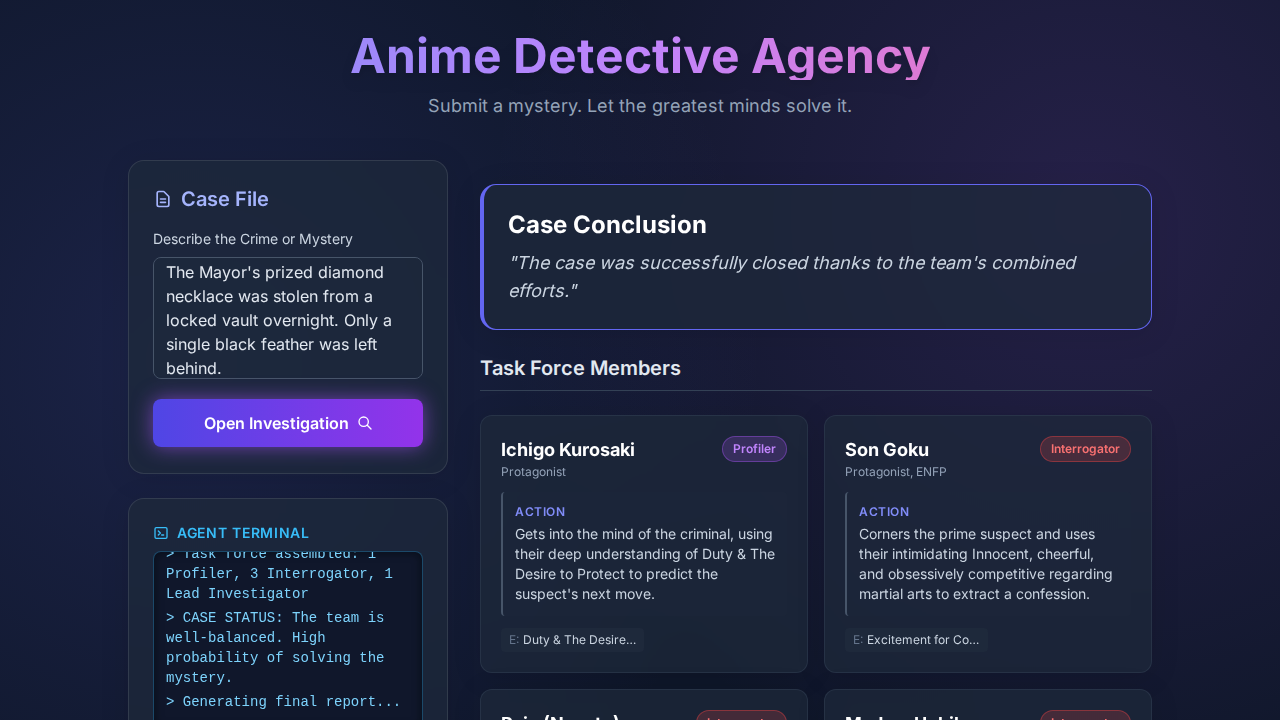
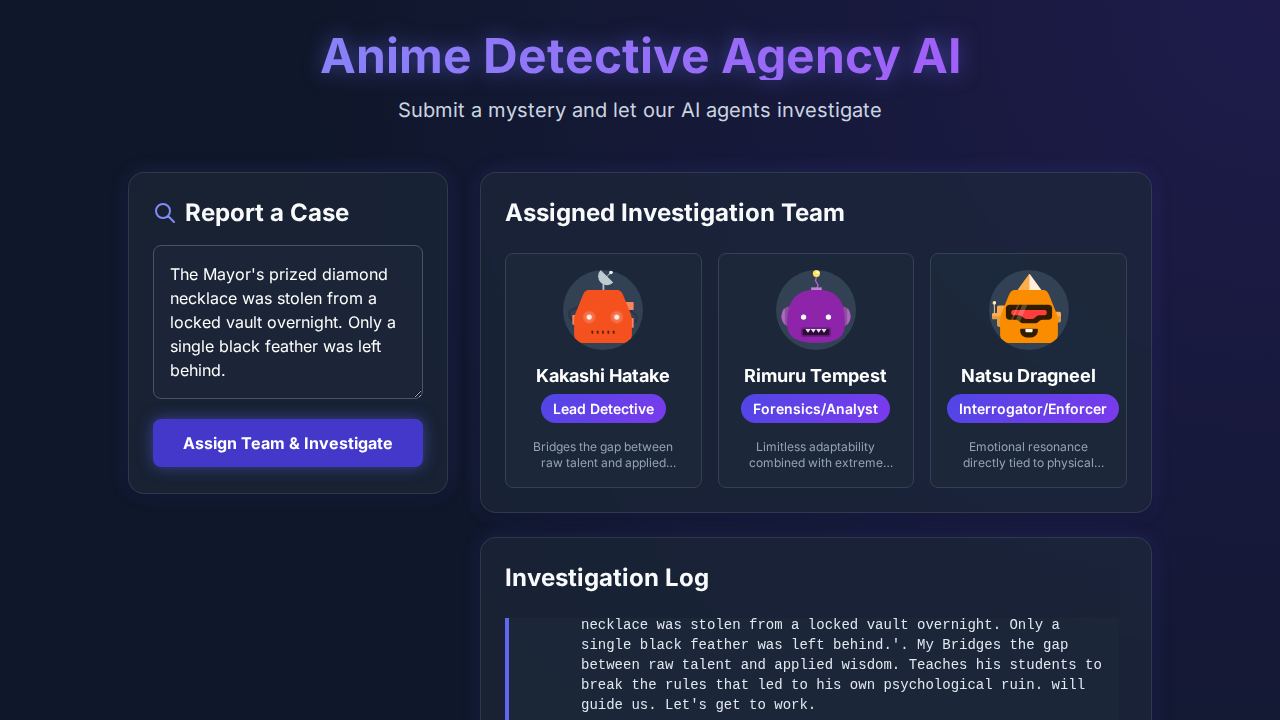
feat: modernize UI/UX and add Fira Code font
- Added Inter and Fira Code google fonts to `anime_detective_agency`, `anime_courtroom`, `anime_affinity_matcher`, and `anime_matchmaker`.
- Added CSS keyframes for fade-in animations across these subprojects.
- Ensured terminal and log sections consistently use `font-mono`.
- Added modern hover effects and glassmorphism styling (`glass-panel`, shadow glows) to UI elements and cards.
- Fixed a bug in `test_detective_agency.py` where element IDs were outdated.

diff --git a/anime_detective_agency/frontend/index.html b/anime_detective_agency/frontend/index.html
@@ -5,6 +5,7 @@
     <meta name="viewport" content="width=device-width, initial-scale=1.0">
     <title>Anime Detective Agency AI</title>
     <script src="https://cdn.tailwindcss.com"></script>
+    <link href="https://fonts.googleapis.com/css2?family=Fira+Code:wght@400;600&family=Inter:wght@400;500;600;700&display=swap" rel="stylesheet">
     <style>
         body {
             background-color: #0f172a;
@@ -43,6 +44,16 @@
             80%, 100% { content: '...'; }
         }
 
+        .fade-in {
+            animation: fadeIn 0.6s cubic-bezier(0.16, 1, 0.3, 1) forwards;
+            opacity: 0;
+            transform: translateY(20px);
+        }
+        @keyframes fadeIn {
+            from { opacity: 0; transform: translateY(20px); }
+            to { opacity: 1; transform: translateY(0); }
+        }
+
         .role-badge {
             background: linear-gradient(135deg, #4f46e5, #7c3aed);
             color: white;
@@ -69,7 +80,7 @@
                         Report a Case
                     </h2>
                     <textarea id="mysteryInput" rows="5" class="w-full bg-slate-800/50 border border-slate-600 rounded-lg p-4 text-white focus:outline-none focus:ring-2 focus:ring-indigo-500 focus:border-transparent transition-all" placeholder="Describe the mystery or crime..."></textarea>
-                    <button id="investigateBtn" class="w-full mt-4 bg-indigo-600 hover:bg-indigo-700 text-white font-bold py-3 px-4 rounded-lg glow-effect flex justify-center items-center">
+                    <button id="investigateBtn" class="w-full mt-4 bg-indigo-600 hover:bg-indigo-700 text-white font-bold py-3 px-4 rounded-lg glow-effect flex justify-center items-center hover:shadow-[0_0_15px_rgba(99,102,241,0.5)] transition-shadow">
                         Assign Team & Investigate
                     </button>
                 </div>
@@ -88,7 +99,7 @@
                 <!-- Investigation Log -->
                 <div class="glass-panel p-6">
                     <h2 class="text-2xl font-bold mb-6">Investigation Log</h2>
-                    <div id="logContainer" class="space-y-4 max-h-96 overflow-y-auto pr-2">
+                    <div id="logContainer" class="space-y-4 max-h-96 overflow-y-auto pr-2 font-mono text-sm">
                         <!-- Logs will be inserted here -->
                     </div>
                 </div>

diff --git a/anime_affinity_matcher/frontend/index.html b/anime_affinity_matcher/frontend/index.html
@@ -6,8 +6,19 @@
     <title>Anime Affinity Matcher AI</title>
     <script src="https://cdn.tailwindcss.com"></script>
     <link href="https://cdnjs.cloudflare.com/ajax/libs/font-awesome/6.0.0/css/all.min.css" rel="stylesheet">
+    <link href="https://fonts.googleapis.com/css2?family=Fira+Code:wght@400;600&family=Inter:wght@400;500;600;700&display=swap" rel="stylesheet">
     <style>
         body { font-family: 'Inter', sans-serif; }
+
+        @keyframes fadeIn {
+            from { opacity: 0; transform: translateY(20px); }
+            to { opacity: 1; transform: translateY(0); }
+        }
+
+        .animate-fade-in {
+            animation: fadeIn 0.6s cubic-bezier(0.16, 1, 0.3, 1) forwards;
+            opacity: 0;
+        }
 
         .custom-scrollbar::-webkit-scrollbar { width: 6px; }
         .custom-scrollbar::-webkit-scrollbar-track { background: transparent; }
@@ -142,7 +153,7 @@
             const style = getCategoryStyle(match.category);
 
             return `
-                <div class="bg-white/5 backdrop-blur-sm rounded-xl border border-white/10 overflow-hidden card-hover animate-fade-in shadow-[0_4px_15px_rgba(0,0,0,0.2)] hover:shadow-[0_8px_25px_rgba(0,0,0,0.4)] transition-all duration-300 group" style="animation-delay: ${index * 0.1}s">
+                <div class="glass-panel bg-white/5 backdrop-blur-sm rounded-xl border border-white/10 overflow-hidden card-hover animate-fade-in shadow-[0_4px_15px_rgba(0,0,0,0.2)] hover:shadow-[0_8px_25px_rgba(0,0,0,0.4)] transition-all duration-300 group" style="animation-delay: ${index * 0.1}s">
                     <div class="${style.bg} p-3 flex justify-between items-center border-b border-white/10">
                         <span class="font-bold text-white drop-shadow-md flex items-center tracking-wide text-sm">
                             <i class="fas ${style.icon} mr-2"></i> ${match.category}

diff --git a/anime_matchmaker/frontend/index.html b/anime_matchmaker/frontend/index.html
@@ -6,6 +6,7 @@
     <title>Anime Matchmaker AI</title>
     <script src="https://cdn.tailwindcss.com"></script>
     <link href="https://cdnjs.cloudflare.com/ajax/libs/font-awesome/6.0.0/css/all.min.css" rel="stylesheet">
+    <link href="https://fonts.googleapis.com/css2?family=Fira+Code:wght@400;600&family=Inter:wght@400;500;600;700&display=swap" rel="stylesheet">
     <style>
         body { font-family: 'Inter', sans-serif; }
 
@@ -253,7 +254,7 @@
             else if (match.match_level.includes('Incompatible')) { icon = 'fa-times-circle'; iconColor = 'text-red-400'; glowColor = 'rgba(248, 113, 113, 0.2)'; }
 
             return `
-                <div class="card-enter bg-slate-800/40 backdrop-blur-md rounded-lg p-5 border border-slate-700/50 hover:-translate-y-2 hover:shadow-[0_0_20px_rgba(236,72,153,0.3)] hover:border-violet-500/50 transition-all duration-300 relative overflow-hidden" style="animation-delay: ${delay}s">
+                <div class="card-enter glass-panel bg-slate-800/40 backdrop-blur-md rounded-lg p-5 border border-slate-700/50 hover:-translate-y-2 hover:shadow-[0_0_20px_rgba(236,72,153,0.3)] hover:shadow-pink-500/30 hover:border-violet-500/50 transition-all duration-300 relative overflow-hidden" style="animation-delay: ${delay}s">
                     <div class="absolute top-0 right-0 bg-slate-900/80 px-3 py-1 rounded-bl-lg border-b border-l border-slate-700/50 text-xs font-mono text-slate-400">
                         Rank #${index + 1} | Score: ${match.score}
                     </div>

diff --git a/anime_courtroom/frontend/index.html b/anime_courtroom/frontend/index.html
@@ -6,6 +6,7 @@
     <title>Anime Courtroom AI</title>
     <script src="https://cdn.tailwindcss.com"></script>
     <link href="https://cdnjs.cloudflare.com/ajax/libs/font-awesome/6.0.0/css/all.min.css" rel="stylesheet">
+    <link href="https://fonts.googleapis.com/css2?family=Fira+Code:wght@400;600&family=Inter:wght@400;500;600;700&display=swap" rel="stylesheet">
     <style>
         body {
             background-color: #0f172a;

diff --git a/test_detective_agency.py b/test_detective_agency.py
@@ -10,11 +10,11 @@ def test_frontend():
         page.goto("http://localhost:8007/")
 
         # Interact with UI
-        page.fill('#mystery-input', 'The Mayor\'s prized diamond necklace was stolen from a locked vault overnight. Only a single black feather was left behind.')
-        page.click('#investigate-btn')
+        page.fill('#mysteryInput', 'The Mayor\'s prized diamond necklace was stolen from a locked vault overnight. Only a single black feather was left behind.')
+        page.click('#investigateBtn')
 
         # Wait for results to be visible
-        page.wait_for_selector('#results-container:not(.hidden)', timeout=10000)
+        page.wait_for_selector('#resultsSection', state='visible', timeout=10000)
 
         # Wait a moment for animations to finish
         page.wait_for_timeout(2000)
